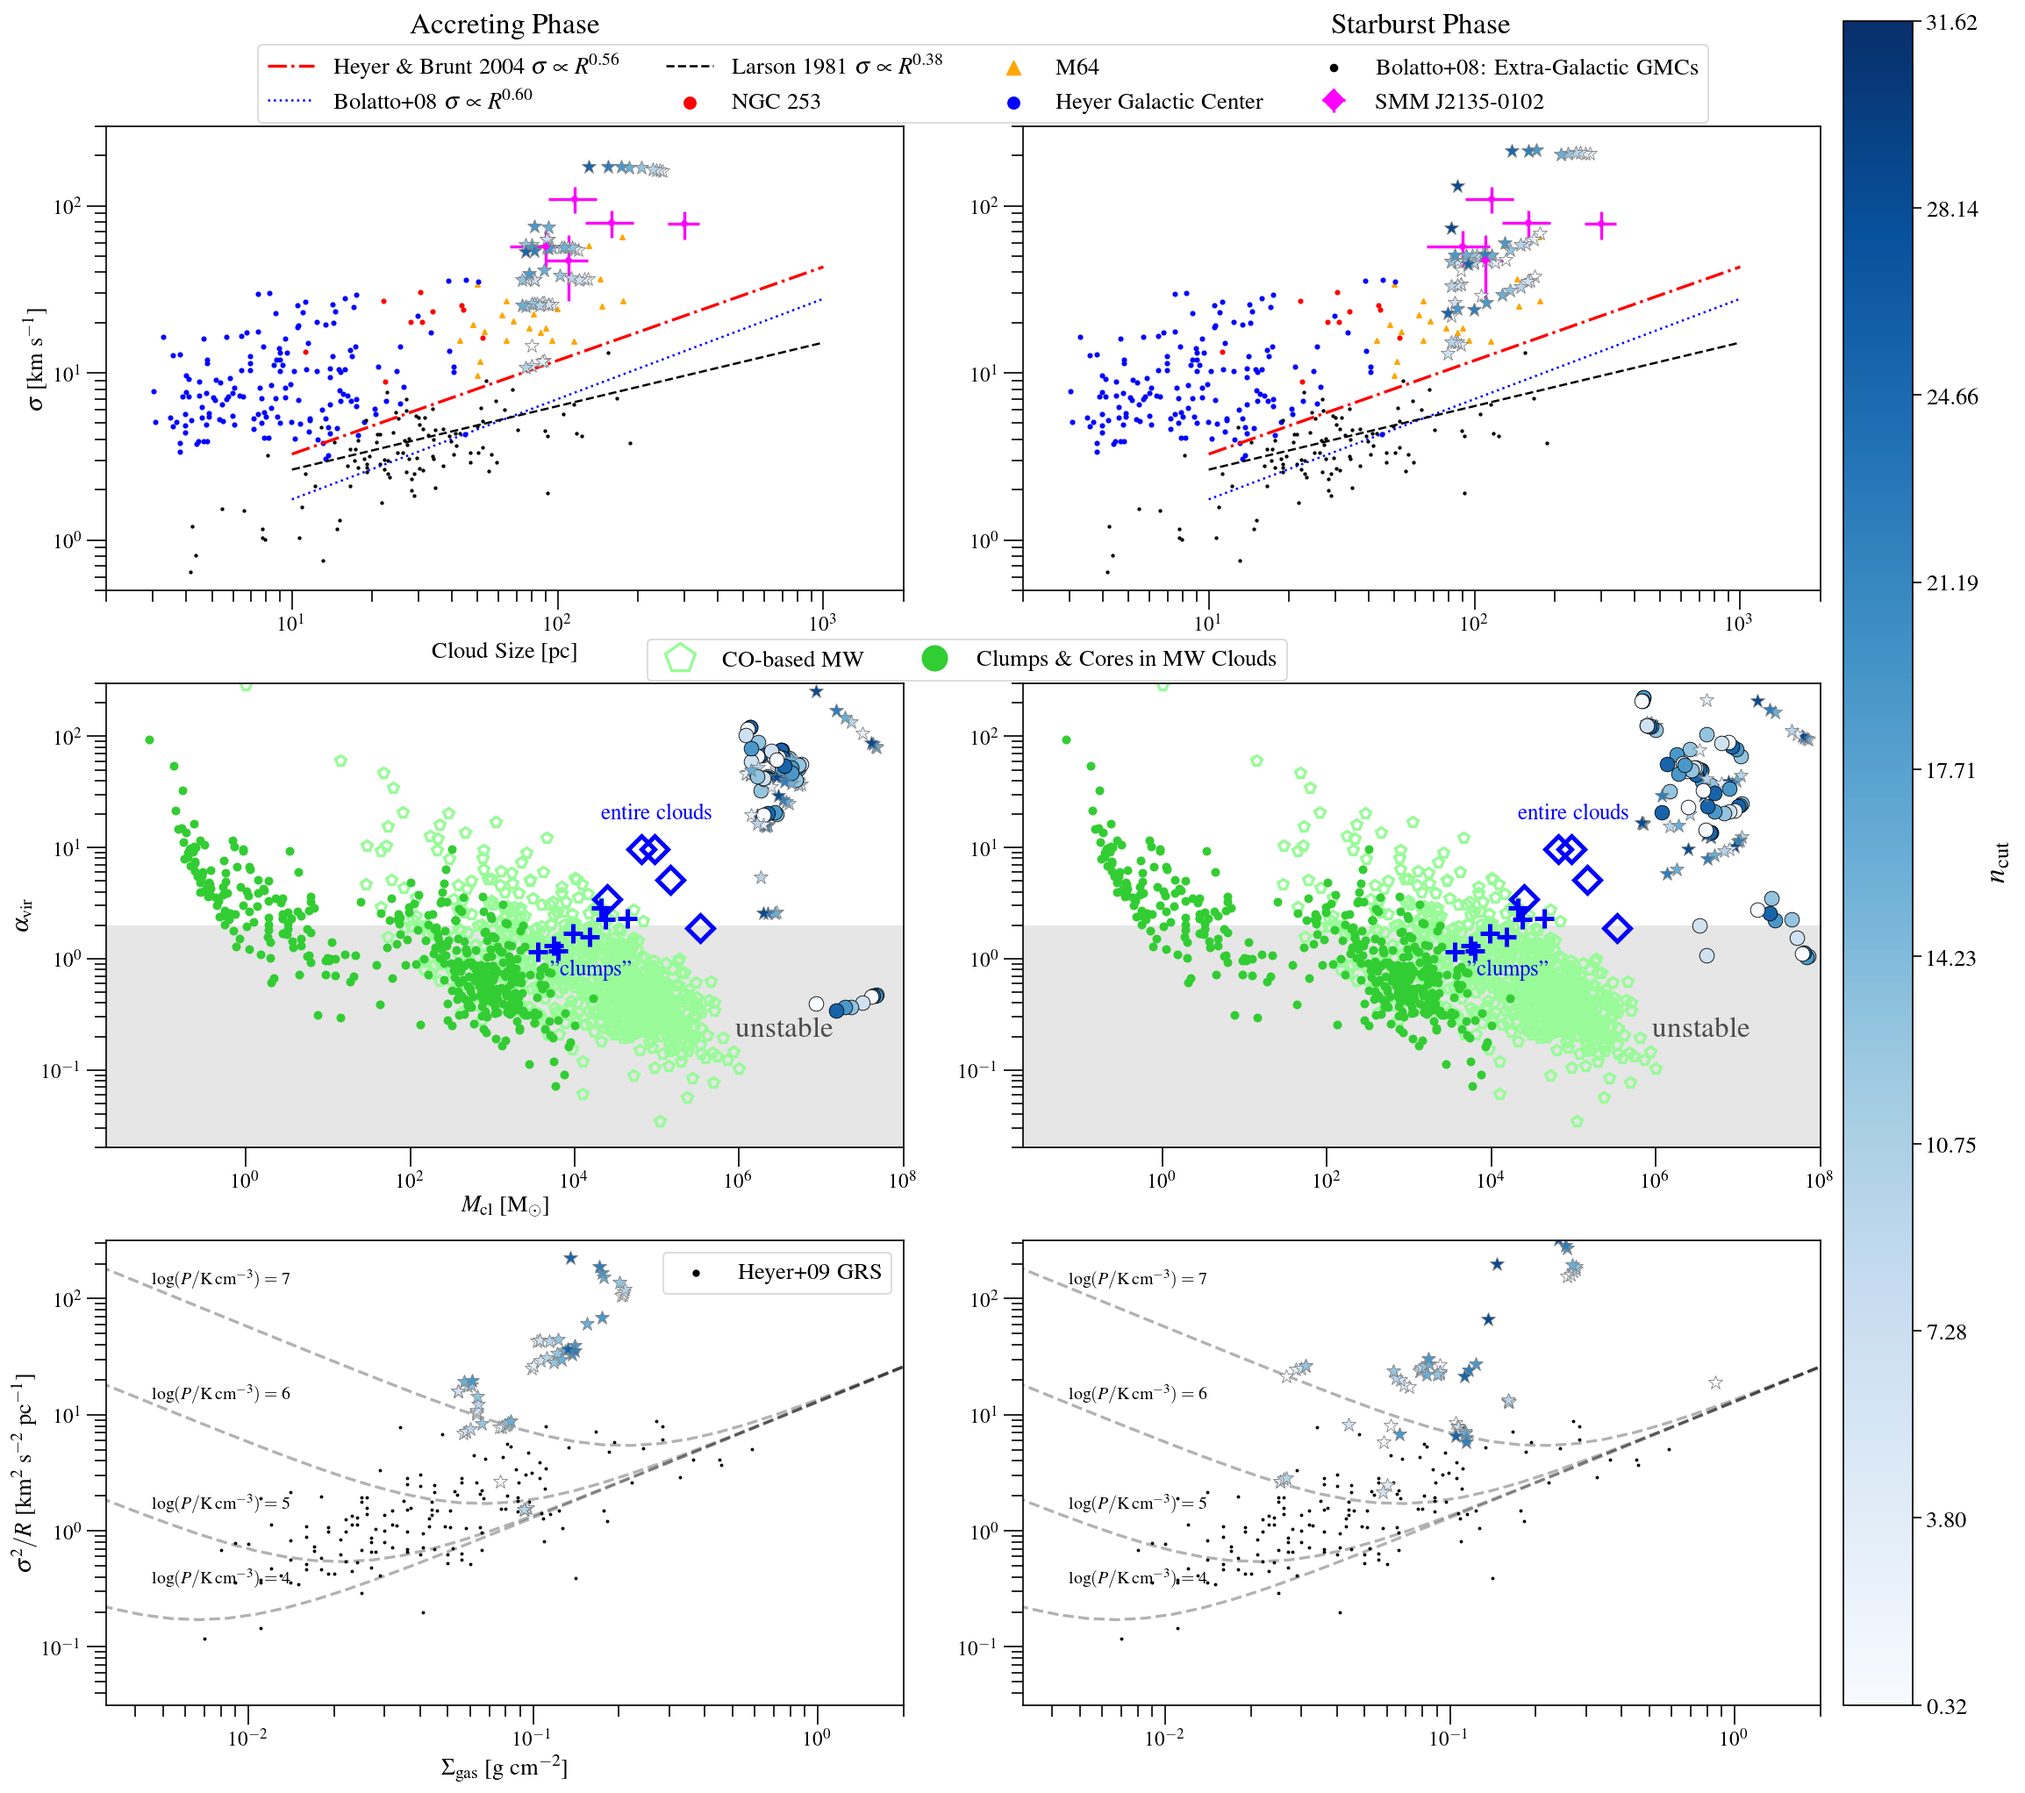
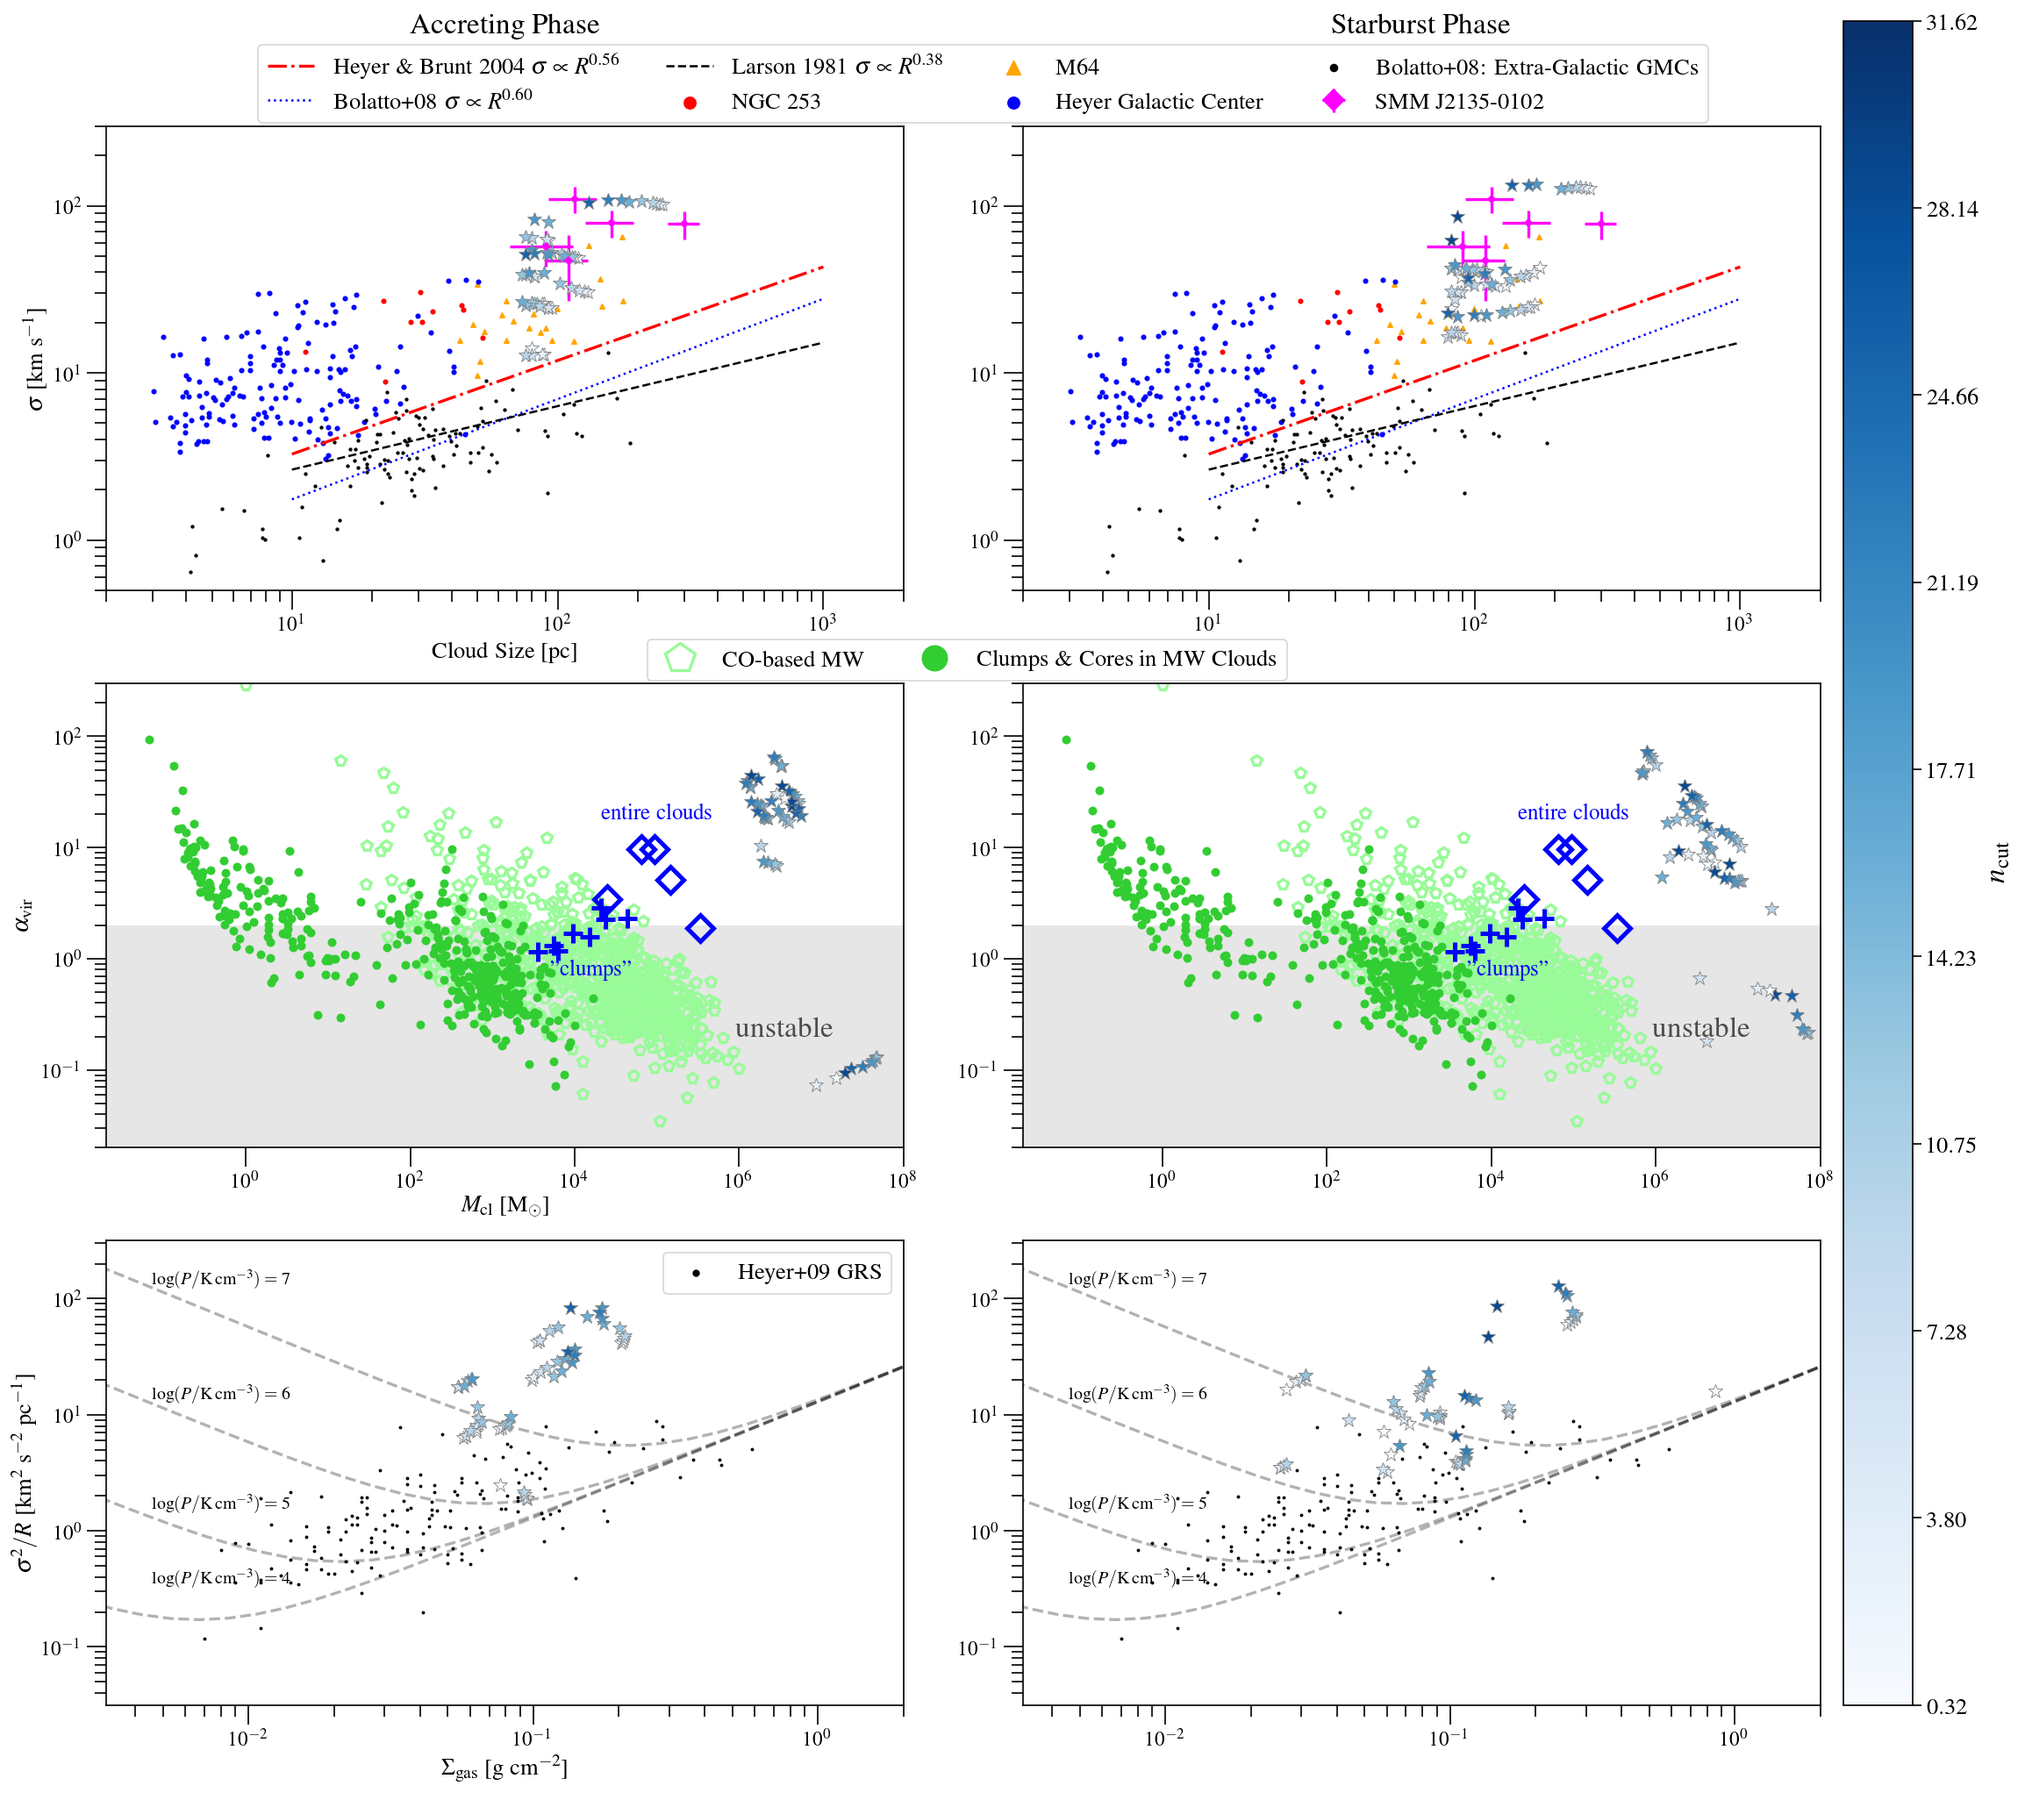
updated fig

diff --git a/WRITEUP/ms.tex b/WRITEUP/ms.tex
@@ -312,7 +312,7 @@ $Q_{\rm crit}$, more-so if the stars have low velocity dispersion.
 As a rule of thumb, $Q_{\rm crit}\eq1.34$ for $Q_{\rm gas}$\eq$Q_\star$.  % 0.67 * 2
 
 % ------------------
-\section{Numerical simulations}\label{sec:sim}
+\section{Numerical Simulations}\label{sec:sim}
 The simulations used in this work are described by \citealt{Pallottini17a, Pallottini17b} and are only briefly summarized here.
 %
 \ncode{Serra}\footnote{Greenhouse in Italian.} is a suite of cosmological zoom-in simulations performed using Eulerian hydrodynamics and adaptive mesh refinement (AMR) techniques to achieve high spatial resolution in regions of interest (e.g., regions of high density).
@@ -603,15 +603,36 @@ smaller than their turbulent velocities\footnote{Velocity dispersions
     \DL{AP: also mention turbulent pressure found for the bulk of dense gas in the simulation in the phase-space analysis presented in \citet{Pallottini17a} here?}
 indicating that contribution from shear is unlikely to dominate the velocity dispersions of the smaller MCCs identified, especially 
 at the highest $n_{\rm ncut}$.\label{ftn:veldisp}}. 
-On average, the Mach number of the MCCs identified at the highest density threshold is $\mathcal{M} = \sigma_{\rm NT}/c_s\simeq 50$, 
-but this depends on the evolutionary stage of \flower.  % see e.g., test_brute/leaf_fields_ss16-28/18.96_10_fields/Mach_cloud-mass.png
-This is consistent with the global analysis done on \flower by \citet{Vallini18a}.
-We also compute the Mach number from turbulent and thermal pressures following
+We compute the Mach number from turbulent and thermal pressures following
 \begin{equation}
 \mathcal{M} \equiv \sqrt{\frac{P_{\rm NT} + P}{ P }}.
 \label{eqn:MPress}
 \end{equation}
-% to track its variation over the evolutionary stages of \flower.
+On average, the Mach number of the MCCs identified at the highest density threshold is $\mathcal{M} \simeq6$,
+% allss: 0.32 
+% In [13]: print(get_Mach_all_clouds(ss11))
+%[10.62623949  3.10713402  7.0525831   3.336829   10.36052827  7.24157821
+%  7.12323137  6.75282955  9.94086767  7.47769907  3.39894958  3.27304956
+%  6.69290803 11.44844494  7.03862716  3.16574077  5.1015787   5.67749554
+%  7.35946615  6.89475134  7.2433421  10.57019778 11.78414139  3.93499799
+%  6.86173652  7.39686112  8.37197686  6.71749578  2.65304172  6.49617895
+%  5.15095491  5.6606244   2.98923849  3.65475035  7.37703114  4.5669722
+%  7.18720926  7.35017082  6.03000248  6.36373235 10.16701766  8.3894084
+%  3.09284034  4.37994321  4.46497953  5.264101    8.11686     3.05183157
+%  7.10365783  6.09513017  8.72517656  5.59659665  3.95290202  9.22726672
+%  4.94960657  6.19757621  4.63335759  3.32670022  3.46706217  5.58358069
+%  3.41808098  8.31386962  4.26357159  3.684986    4.01853538  3.62917357
+%  6.05586465  9.82127908  6.68366736 11.0791874  13.28965621 10.42021747
+%  3.04409362  7.21509021  3.63699627  8.12503492  3.20158298]
+% allss: 18.96
+%In [15]: print(get_Mach_all_clouds(ss12))
+%[15.25049689  6.74580503  6.98246499  5.17070655  6.470997    7.02626558
+%  4.42663778  6.34460542  4.90603266  3.66900884  4.03260414  6.9539893
+%  8.36247744  4.89164338  4.12695121  6.55187227  6.15391173  3.56580625
+%  5.74818066  3.81067175  6.65393948  9.10100946  6.35039889  4.78667156
+%  5.05517168  6.93886988  5.4830306 ]
+but this depends on the evolutionary stage of \flower.  % see also e.g., test_brute/leaf_fields_ss16-28/18.96_10_fields/Mach_cloud-mass.png
+% This is consistent with the global analysis done on \flower by \citet{Vallini18a}.
 
 
 The highest density threshold of $n_{\rm cut}$\eq31.62\,\cc corresponds to 
@@ -672,8 +693,6 @@ MCCs (star symbols) identified in the two most extreme evolutionary
 stages of \flower\ --- accreting phase (left) and starburst phase
 (right). Star symbols are color-coded by the density thresholds
 $n_{\rm cut}$, as illustrated by the colorbar.
-Blue circular symbols shown in the $\alpha_{\rm vir}$-mass plot shows the total virial parameters, including
-the stellar contribution (see Equation~\ref{eqn:alpha_tot}).
 Literature data in the linewidth-size plots are from \citet{Heyer04a, Rosolowsky05a, Bolatto08a, 
 % black dot = extragalactic GMCs in quiescent environments
 Leroy15a}, and \citet{Swinbank11a}, and the empirical scaling relations are 
@@ -764,8 +783,9 @@ the $z$\ssim2 starbursting disk galaxy SMM\,J2135-0102 % SFR: 400, fgas ~ 0.6.
 
 % middle
 While the virial parameter is typically defined as Equation~\ref{eqn:alpha} in observational studies, as they probes structures that are 
-mainly composed of molecular gas only, we also calculate the total virial parameter ($\alpha_{\rm vir, tot}$; Equation~\ref{eqn:alpha_tot}) 
-for MCCs of \flower, given the high stellar-to-gas mass ratios of some of them (see \Fig{stellarRatio16}). 
+mainly composed of molecular gas only, we calculate the virial parameter including the influence from the stellar component 
+for MCCs of \flower (i.e., $\alpha_{\rm vir, tot}$ via Equation~\ref{eqn:alpha_tot}) given the high stellar-to-gas mass ratios of 
+some of them (see \Fig{stellarRatio16}). 
 MCCs with the highest stellar-to-gas mass ratio ($\gtrsim$\,1) correspond to the central main disk of \flower (see top panels of 
 \Fig{MCC} and \Sec{distribution}), which includes a large fraction of stellar mass that are already assembled in \flower. 
 This explains the low total virial parameter seen in the most massive MCCs of \flower in this phase, as shown in
@@ -956,6 +976,33 @@ between the accreting phase and the starburst phase of \flower in terms of the L
 However, MCCs in the pre-\SB phase have lower $\alpha_{\rm vir}$ and pressure compared to the starburst phase. 
 Similarly, we see that MCCs .... in the post-starburst phase. 
 This is expected for \SF.
+
+\subsection{Importance of Bulk Motions in Measured Velocity Dispersion}
+
+\begin{figure}
+\centering
+\includegraphics[trim=0 0 0 0, clip, width=0.5\textwidth]{\figpath/ss16-sigma-kms-bulk_sigma-kms-NT} \\
+\includegraphics[trim=0 0 0 0, clip, width=0.5\textwidth]{\figpath/ss28-sigma-kms-bulk_sigma-kms-NT}
+\caption{Velocity dispersions from bulk motions and turbulent motions of \flower in accreting phase (top) and 
+quiescent phase (bottom). The accreting phase (\Fig{MCC}) displays a more disturbed morphology compared to the 
+quiescent phase, which displays a disk-like morphology (\Fig{MCC28}). 
+Most MCCs in the accreting phase have velocity dispersions from turbulent motions higher than those from bulk motions. 
+The opposite trend is true in the quiescent phase.
+\label{fig:vv}}
+\end{figure}
+
+We compare the velocity dispersion from bulk motions versus turbulent motions in \Fig{vv}, for the accreting phase
+and the quiescent phase. The accreting phase has a disturbed morphology while the quiescent phase 
+displays a disk-like morphology (see \Fig{MCC} and \Fig{MCC28}). 
+Most MCCs in the accreting phase have turbulent velocity dispersions higher than the bulk motion velocity dispersions. The opposite is true for the 
+quiescent phase. Second, the two velocity dispersions are of the same order of magnitude. 
+This indicates that the .... have an important contribution from large-scale rotation.
+\DL{ rewrite: This also poses challenge to measurements and interpretation of .... from existing observations of 
+molecular ``clouds'' observed with 
+ALMA and VLA. 
+n, and so comparison of their dynamics with local clouds via e.g., Larsons relations is not straightforward, and thus, the interpretation of such. 
+Meaning a lot of the sigma people infer at the sub-pc scale have a non-negligible contribution from rotation (cf. solely random motion), so it's not immediately fair for observations to say that higher redshift molecular gas are more turbulent based on solely measured velocity dispersion. 
+}
 
 
 
